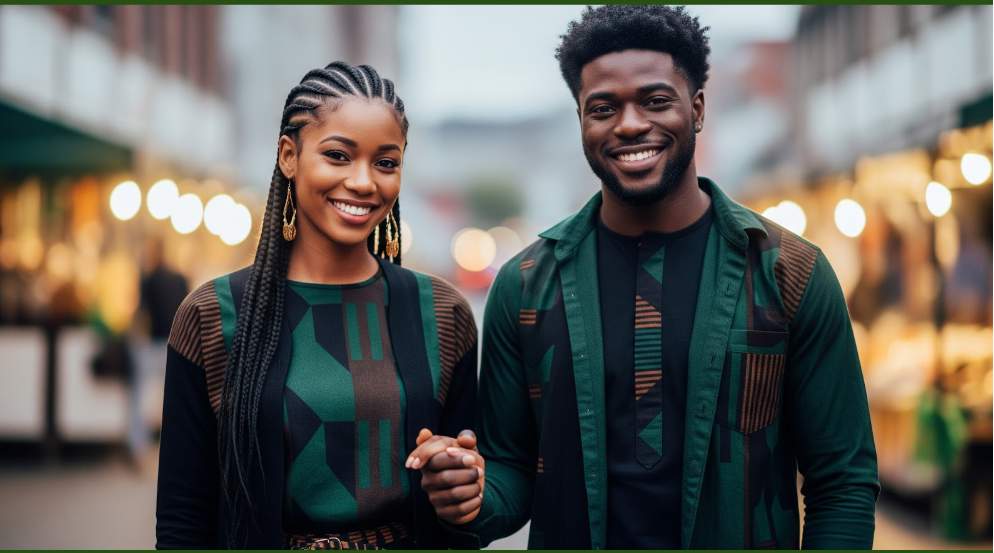
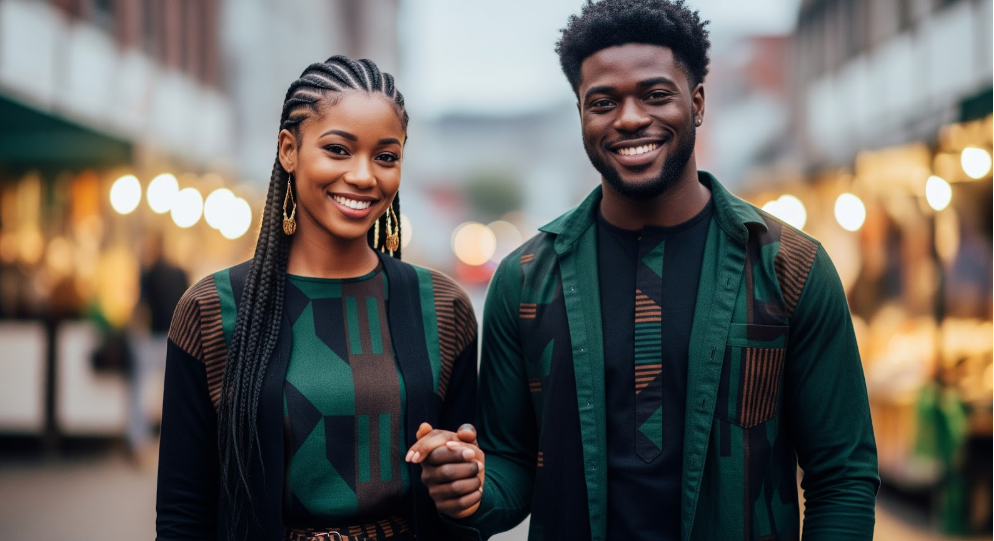
Changes

diff --git a/src/pages/LandingPage.tsx b/src/pages/LandingPage.tsx
@@ -102,13 +102,18 @@ const LandingPage = () => {
       <div className="relative min-h-[70vh] sm:min-h-[80vh] lg:min-h-screen flex flex-col">
         {/* Background Image Layer */}
         <div className="absolute inset-0">
-          <div ref={videoRef} className={`w-full h-full transition-all duration-1000 ${isVideoPlaying ? 'scale-105' : 'scale-100'}`} style={{
-          backgroundImage: `url(${landingImage})`,
-          backgroundSize: 'cover',
-          backgroundPosition: 'center center',
-          backgroundRepeat: 'no-repeat',
-          backgroundAttachment: 'scroll'
-        }} />
+        <div 
+          ref={videoRef} 
+          data-landing-hero
+          className={`w-full h-full transition-all duration-1000 ${isVideoPlaying ? 'scale-105' : 'scale-100'}`} 
+          style={{
+            backgroundImage: `url(${landingImage})`,
+            backgroundSize: 'cover',
+            backgroundPosition: 'center 20%',
+            backgroundRepeat: 'no-repeat',
+            backgroundAttachment: 'scroll'
+          }} 
+        />
           {/* Dark overlay for text readability */}
           <div className="absolute inset-0 bg-gradient-to-t from-black/85 via-primary/30 to-transparent" />
         </div>
